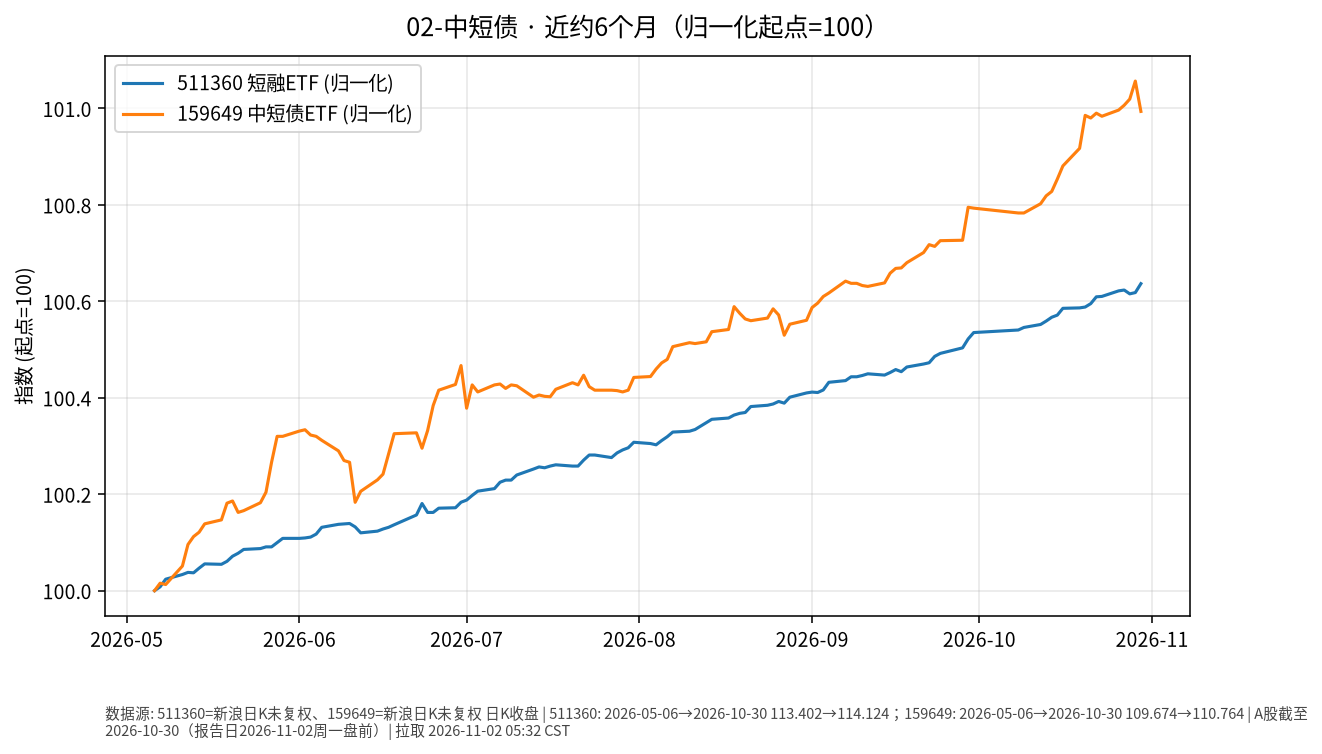
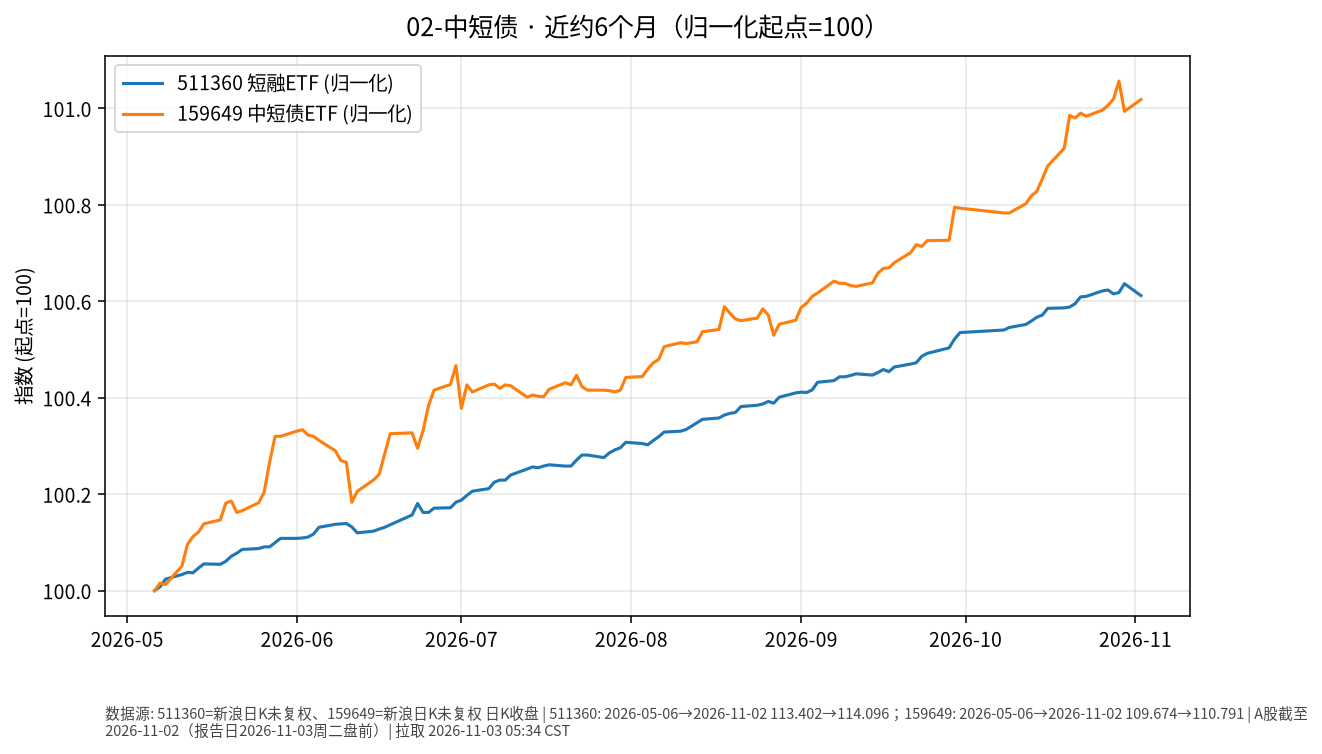
docs: 五门类投资日报 2026-11-03

diff --git a/01-黄金/日报/2026-11-03.md b/01-黄金/日报/2026-11-03.md
@@ -1,0 +1,30 @@
+# 黄金 · 日报 2026-11-03
+
+## 市场状态
+- **报告日**：2026-11-03（周二，Asia/Shanghai 盘前例程）
+- **数据截止交易日**：A 股/沪金均为 **2026-11-02（周一）**；GLD 报价点亦记为 **2026-11-02**（见下方数据完整性说明）。本页数字不含周二盘中。
+- GLD 收盘（或最新可得报价）**361.65**，较前一可得点（10-30 的 355.78）**+1.65%**（akshare 日 K 至 10-30；**2026-11-02** 点位由新浪美股行情 `gb_gld` 补齐；yfinance/Yahoo 限流）。
+- 沪金 AU9999：**2026-11-02** 收盘 **836.08** 元/克（**-2.19%**）；黄金 ETF 518880 收 **7.941**（**-2.14%**）。
+
+## 关键数据
+| 标的 | 最近收盘日 | 收盘 | 日涨跌 | 近约6个月（归一起点日） | 区间涨跌 |
+|------|------------|------|--------|-------------------------|----------|
+| GLD | 2026-11-02 | 361.65 | +1.65% | 2026-05-01→2026-11-02 | -14.54% |
+| 518880 黄金ETF | 2026-11-02 | 7.941 | -2.14% | 2026-05-06→2026-11-02 | -18.89% |
+| AU9999（沪金） | 2026-11-02 | 836.08 | -2.19% | 2026-05-06→2026-11-02 | -18.59% |
+
+![近6个月走势](./charts/01-黄金-6m.png)
+
+## 简要解读
+- 美元计价黄金 ETF（GLD）在 **2026-11-02** 自 10-30 低点回升约 **+1.65%**；境内 518880 约 **-2.14%**，沪金 AU9999 约 **-2.19%**。近约半年归一后约 **-14.54%～-18.89%**。
+- 价格变动同时受美元、实际利率与风险情绪影响；本页只描述已发生报价，不推断下一步方向。
+
+## 关注点与风险
+- 汇率：境内投资者若以人民币计量，还需叠加美元兑人民币变动，账面涨跌可能与 GLD 美元涨跌不一致。
+- 波动：黄金阶段性回撤后波动仍可能放大；ETF 净值/溢价、交易时段与现货不完全同步。
+- 数据完整性：GLD 历史至 10-30 来自 akshare；**2026-11-02** 收盘由新浪 `gb_gld` 补点（yfinance/Yahoo 限流）。518880 新浪日 K；SGE Au99.99 完整。图中三条归一曲线均已叠加。
+
+## 来源与时间
+- GLD：akshare `stock_us_daily`（至 2026-10-30）+ 新浪 hq `gb_gld`（2026-11-02）；yfinance/Yahoo 限流
+- 518880：新浪日 K；AU9999：上海金交所 Dailyhq
+- 图表：Python matplotlib，收盘价归一到起点=100（图窗自 2026-05-01 起）；拉取约 2026-11-03 05:34 Asia/Shanghai

diff --git a/03-国债/日报/2026-11-03.md b/03-国债/日报/2026-11-03.md
@@ -1,0 +1,29 @@
+# 国债 · 日报 2026-11-03
+
+## 市场状态
+- **报告日**：2026-11-03；**数据截止交易日**：**2026-11-02**。
+- 国债 ETF 511010 收 **141.170**，日涨跌 **+0.033%**。
+- 中债国债收益率曲线 **10 年期** 2026-11-02 报 **1.6343%**，较上一可得日（2026-10-30 的 1.6500%）约 **-1.57 BP**（akshare `bond_zh_us_rate`）。
+- **提醒**：利率上行（曲线上移）通常对应既有国债价格承压；图中 ETF 净值涨 ≠ 收益率涨。**利率↑线↑≠债价涨**。
+
+## 关键数据
+| 标的 | 收盘日 | 收盘/收益率 | 日变化 | 约6个月 | 区间 |
+|------|--------|-------------|--------|---------|------|
+| 511010 | 2026-11-02 | 141.170 | +0.033% | 2026-05-06→2026-11-02 | +0.25% |
+| 中债10Y国债收益率 | 2026-11-02 | 1.6343% | 约-1.57 BP | 2026-05-06→2026-11-02 | 约 -13.11 BP（akshare 序列） |
+
+![近6个月走势](./charts/03-国债-6m.png)
+
+## 简要解读
+- 511010 近半年归一涨跌约 **+0.25%**，路径相对平缓；2026-11-02 微涨，同时 10Y 收益率较前一可得日约 -1.57 BP（利率下行对存量债价偏支撑，与 ETF 同日微涨方向一致，但单日仍可能受供需/折溢价影响）。
+- 久期越长，对收益率变化越敏感；本页只记录 ETF 收盘与曲线点位。图中右轴叠加中国10Y收益率日序。
+
+## 关注点与风险
+- 利率风险：收益率上行 → 债券市价下行。
+- 通胀预期、货币政策与供需（供给放量等）都会改变曲线形态。
+- 收益率序列来自公开曲线汇总，与 ETF 交易价时间戳不完全同步。
+
+## 来源与时间
+- 511010：新浪日 K；截止 2026-11-02
+- 收益率：akshare `bond_zh_us_rate`（2026-11-02，10Y=1.6343%）
+- 图表：matplotlib，ETF 收盘归一=100，中国10Y 收益率右轴；图注已写「利率↑线↑≠债价涨」；拉取约 2026-11-03 05:34 Asia/Shanghai

diff --git a/05-高股息/日报/2026-11-03.md b/05-高股息/日报/2026-11-03.md
@@ -1,0 +1,30 @@
+# 高股息 · 日报 2026-11-03
+
+## 市场状态
+- **报告日**：2026-11-03；**数据截止交易日**：**2026-11-02**。
+- 红利 ETF 510880 收 **3.440**（**-0.58%**）。
+- 招商银行 600036 收 **43.18**（**-0.85%**）；长江电力 600900 收 **29.50**（**-0.81%**）。
+- 三条序列同日均下行；分红与价格涨跌是两回事（股息率随股价变动）。
+- **价格口径**：本页序列为交易所日 K **未复权**收盘（新浪）。
+
+## 关键数据
+| 标的 | 收盘日 | 收盘 | 日涨跌 | 约6个月 | 区间涨跌 |
+|------|--------|------|--------|---------|----------|
+| 510880 红利ETF | 2026-11-02 | 3.440 | -0.58% | 2026-05-06→2026-11-02 | +2.96% |
+| 600036 招商银行 | 2026-11-02 | 43.18 | -0.85% | 2026-05-06→2026-11-02 | +13.63% |
+| 600900 长江电力 | 2026-11-02 | 29.50 | -0.81% | 2026-05-06→2026-11-02 | +8.46% |
+
+![近6个月走势](./charts/05-高股息-6m.png)
+
+## 简要解读
+- 近半年归一（未复权）：510880 约 **+2.96%**，招行约 **+13.63%**，长电约 **+8.46%**（个股路径强于宽基红利 ETF，不代表未来）。
+- 2026-11-02 三条均回落，属已发生的价格事实。
+
+## 关注点与风险
+- 银行与公用事业对利率、监管、来水/电价等基本面敏感；高股息不保证本金稳定。
+- 510880 成分与权重定期调整；个股与 ETF 走势可显著偏离。
+- 未复权序列在除权除息日会出现跳空，与前复权路径不一致属正常。
+
+## 来源与时间
+- 510880 / 600036 / 600900：新浪 CN_MarketData K 线（未复权）
+- 截止 2026-11-02；图表 matplotlib，起点=100；图注写明未复权；拉取约 2026-11-03 05:34 Asia/Shanghai

diff --git a/02-中短债/日报/2026-11-03.md b/02-中短债/日报/2026-11-03.md
@@ -1,0 +1,28 @@
+# 中短债 · 日报 2026-11-03
+
+## 市场状态
+- **报告日**：2026-11-03；**A 股数据截止交易日**：**2026-11-02**（周二盘前）。
+- 短融 ETF 511360 收 **114.096**（日涨跌 **-0.025%**）。
+- 159649（国开债 ETF 华安）收 **110.791**（日涨跌 **+0.024%**）。
+- 短端品种单日变动极小；仅作路径对照，非交易建议。
+
+## 关键数据
+| 标的 | 收盘日 | 收盘 | 日涨跌 | 约6个月区间 | 区间涨跌 |
+|------|--------|------|--------|-------------|----------|
+| 511360 短融ETF海富通 | 2026-11-02 | 114.096 | -0.025% | 2026-05-06→2026-11-02 | +0.61% |
+| 159649 国开债ETF华安 | 2026-11-02 | 110.791 | +0.024% | 2026-05-06→2026-11-02 | +1.02% |
+
+![近6个月走势](./charts/02-中短债-6m.png)
+
+## 简要解读
+- 两条曲线近半年均呈缓慢抬升（归一后约 **+0.61%** / **+1.02%**），单日波动接近于零，符合短久期利率品种特征。
+- 159649 跟踪国开债，久期与信用暴露通常高于纯短融；与 511360 并排只为对照路径，不暗示优劣。
+
+## 关注点与风险
+- 利率上行时净值可能回撤（即使票息仍为正）。
+- ETF 折溢价、流动性与跟踪误差；节假日后跳空可能出现。
+- 杠杆与加久期会放大波动——本报告不讨论、不鼓励此类操作。
+
+## 来源与时间
+- 新浪 CN_MarketData 日 K，截止 2026-11-02
+- 图表：matplotlib，起点归一=100；拉取约 2026-11-03 05:34 Asia/Shanghai

diff --git a/04-纯债/日报/2026-11-03.md b/04-纯债/日报/2026-11-03.md
@@ -1,0 +1,28 @@
+# 纯债 · 日报 2026-11-03
+
+## 市场状态
+- **报告日**：2026-11-03；**数据截止交易日**：**2026-11-02**。
+- 城投债 ETF 511220 收 **10.424**（**+0.163%**）。
+- 政金债/债券 ETF 511520 收 **119.747**（**+0.173%**）。
+- 两者同日均小幅上行；近半年仍呈缓慢抬升。
+
+## 关键数据
+| 标的 | 收盘日 | 收盘 | 日涨跌 | 约6个月区间 | 区间涨跌 |
+|------|--------|------|--------|-------------|----------|
+| 511220 城投债ETF海富通 | 2026-11-02 | 10.424 | +0.163% | 2026-05-06→2026-11-02 | +0.87% |
+| 511520 政金债ETF富国 | 2026-11-02 | 119.747 | +0.173% | 2026-05-06→2026-11-02 | +2.52% |
+
+![近6个月走势](./charts/04-纯债-6m.png)
+
+## 简要解读
+- 近半年归一：511220 约 **+0.87%**，511520 约 **+2.52%**；2026-11-02 两者均小幅上行。
+- 城投债含信用利差暴露，政金债更偏利率；并排对照路径，不评价孰优。
+
+## 关注点与风险
+- 信用利差扩张时，城投/信用类净值回撤可能大于利率债。
+- 利率上行同样压制久期更长的品种。
+- ETF 折溢价与跟踪误差；本报告不讨论杠杆与下沉信用。
+
+## 来源与时间
+- 新浪 CN_MarketData 日 K，截止 2026-11-02
+- 图表：matplotlib，起点归一=100；拉取约 2026-11-03 05:34 Asia/Shanghai

diff --git a/notes/invest-knowledge-100/今日一点/2026-11-03-day07.md b/notes/invest-knowledge-100/今日一点/2026-11-03-day07.md
@@ -1,0 +1,5 @@
+# 今日一点 · Day 7/100 · 《机会成本》
+
+**结论：** 过度趴在现金里，和过度追高收益，两边都会「贵」——贵在看不见的机会成本。
+
+**机制：** 闲置资金长期停在活期，通胀与本可拿到的稳健票息会悄悄吃掉购买力；反过来为多赚几个点去拉长久期、下沉信用或加股票，动用年限不够时就可能在低点被迫卖出，把波动变成真损失。机会成本不是「错过暴涨」，而是选错时间匹配后多付的代价。这和债底仓主线一致——先用年限管住两边极端，再谈股票卫星。今天只记权衡框架，不谈买卖。

diff --git a/notes/invest-knowledge-100/progress.md b/notes/invest-knowledge-100/progress.md
@@ -1,4 +1,4 @@
-next_day: 7
+next_day: 8
 started: 2026-10-26
-last_completed_day: 6
-last_date: 2026-11-02
+last_completed_day: 7
+last_date: 2026-11-03
